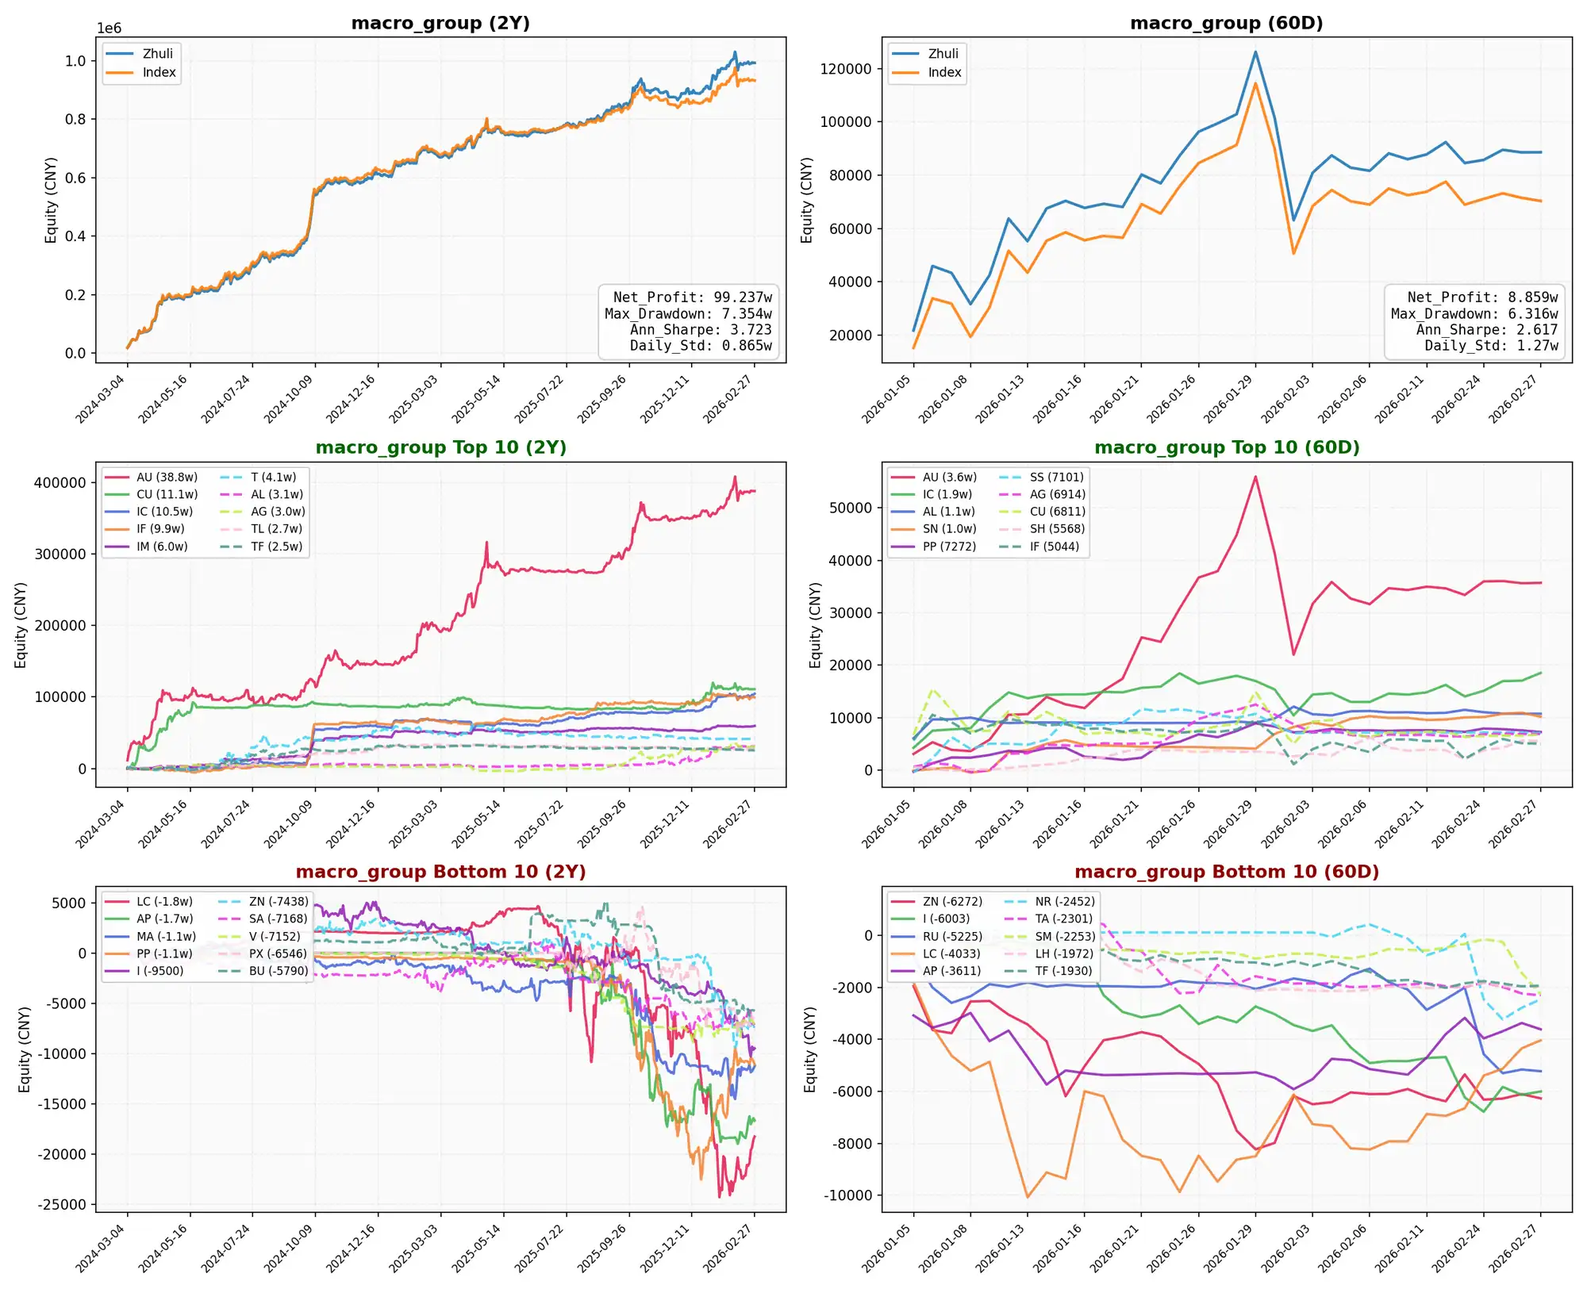
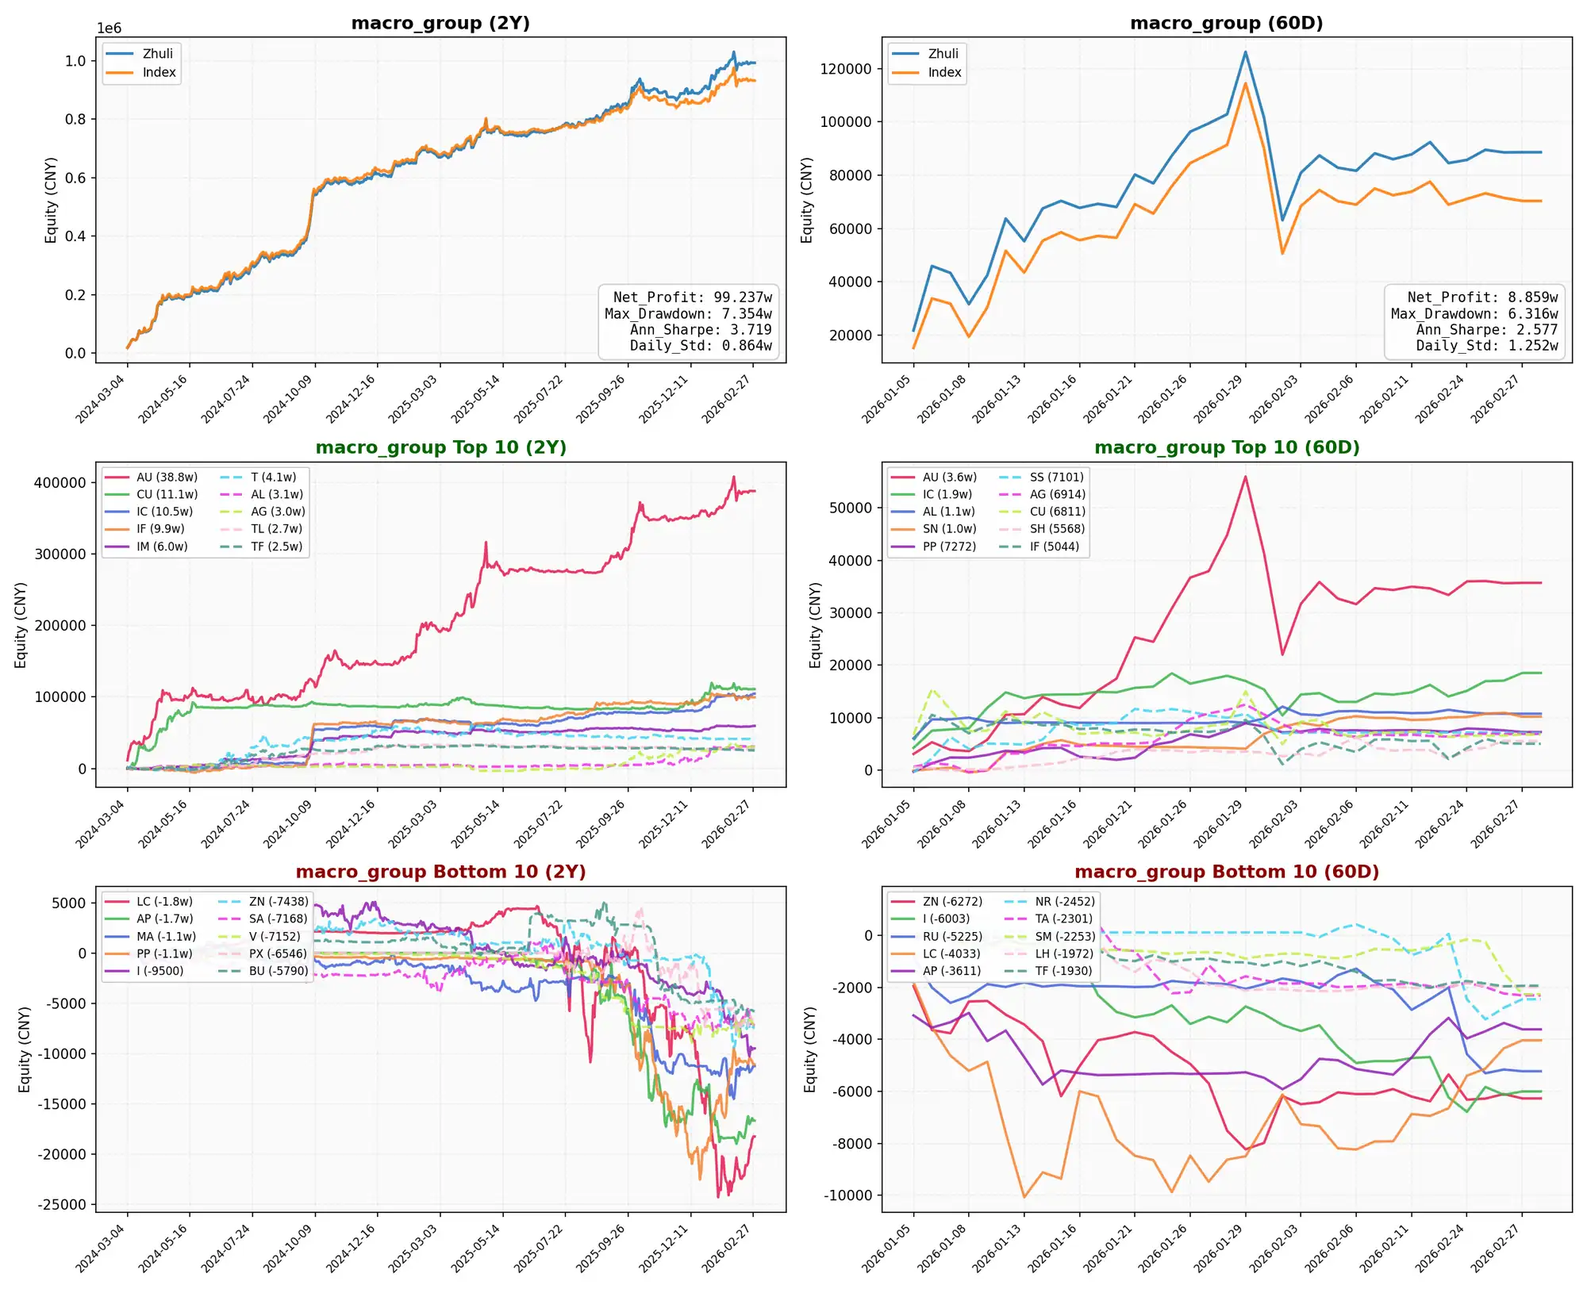
update 2026-03-02

diff --git a/group/index.html b/group/index.html
@@ -61,7 +61,7 @@
 </head>
 <body>
 <h1>Strategy Equity Dashboard</h1>
-<p class="subtitle">Updated: 2026-03-02 | Sorted by 60D Ann_Sharpe | 19 strategies | results_group</p>
+<p class="subtitle">Updated: 2026-03-02 | Sorted by 60D Ann_Sharpe | 20 strategies | results_group</p>
 <div class="controls">
   <input type="text" id="search" placeholder="Search strategy name..." oninput="filterCards()">
   <button onclick="toggleAll()">Expand / Collapse All</button>
@@ -146,8 +146,8 @@
       <div class="card-header" onclick="toggleCard(this.parentElement)">
         <span class="rank">#4</span>
         <span class="name">CTA_ts_HTOR_v2</span>
-        <span class="badge">60D Profit: 13.484w</span>
-        <span class="badge badge-sharpe">Sharpe: 4.404</span>
+        <span class="badge">60D Profit: 14.382w</span>
+        <span class="badge badge-sharpe">Sharpe: 4.612</span>
         <span class="badge badge-dd">MaxDD: 4.642w</span>
         <span class="toggle-icon">▼</span>
       </div>
@@ -155,21 +155,46 @@
         <div class="kpi-row">
           <table class="kpi-table">
             <tr><th colspan="4">2Y KPI</th></tr>
-            <tr><td class="kpi-label">Net_Profit</td><td class="kpi-val">91.315w</td><td class="kpi-label">Max_Drawdown</td><td class="kpi-val">5.324w</td></tr>
-            <tr><td class="kpi-label">Ann_Sharpe</td><td class="kpi-val">3.325</td><td class="kpi-label">Daily_Std</td><td class="kpi-val">0.901w</td></tr>
+            <tr><td class="kpi-label">Net_Profit</td><td class="kpi-val">92.213w</td><td class="kpi-label">Max_Drawdown</td><td class="kpi-val">5.324w</td></tr>
+            <tr><td class="kpi-label">Ann_Sharpe</td><td class="kpi-val">3.352</td><td class="kpi-label">Daily_Std</td><td class="kpi-val">0.901w</td></tr>
           </table>
           <table class="kpi-table">
             <tr><th colspan="4">60D KPI</th></tr>
-            <tr><td class="kpi-label">Net_Profit</td><td class="kpi-val">13.484w</td><td class="kpi-label">Max_Drawdown</td><td class="kpi-val">4.642w</td></tr>
-            <tr><td class="kpi-label">Ann_Sharpe</td><td class="kpi-val">4.404</td><td class="kpi-label">Daily_Std</td><td class="kpi-val">1.521w</td></tr>
+            <tr><td class="kpi-label">Net_Profit</td><td class="kpi-val">14.382w</td><td class="kpi-label">Max_Drawdown</td><td class="kpi-val">4.642w</td></tr>
+            <tr><td class="kpi-label">Ann_Sharpe</td><td class="kpi-val">4.612</td><td class="kpi-label">Daily_Std</td><td class="kpi-val">1.501w</td></tr>
           </table>
         </div>
         <img class="chart-img" data-src="CTA_ts_HTOR_v2.webp" alt="CTA_ts_HTOR_v2">
       </div>
     </div>
-    <div class="card collapsed" id="CMF17_corr_atr_momentumfilter">
+    <div class="card collapsed" id="zlw_1000w">
       <div class="card-header" onclick="toggleCard(this.parentElement)">
         <span class="rank">#5</span>
+        <span class="name">zlw_1000w</span>
+        <span class="badge">60D Profit: 278.25w</span>
+        <span class="badge badge-sharpe">Sharpe: 3.795</span>
+        <span class="badge badge-dd">MaxDD: 137.132w</span>
+        <span class="toggle-icon">▼</span>
+      </div>
+      <div class="card-body">
+        <div class="kpi-row">
+          <table class="kpi-table">
+            <tr><th colspan="4">2Y KPI</th></tr>
+            <tr><td class="kpi-label">Net_Profit</td><td class="kpi-val">1129.223w</td><td class="kpi-label">Max_Drawdown</td><td class="kpi-val">211.302w</td></tr>
+            <tr><td class="kpi-label">Ann_Sharpe</td><td class="kpi-val">1.718</td><td class="kpi-label">Daily_Std</td><td class="kpi-val">21.529w</td></tr>
+          </table>
+          <table class="kpi-table">
+            <tr><th colspan="4">60D KPI</th></tr>
+            <tr><td class="kpi-label">Net_Profit</td><td class="kpi-val">278.25w</td><td class="kpi-label">Max_Drawdown</td><td class="kpi-val">137.132w</td></tr>
+            <tr><td class="kpi-label">Ann_Sharpe</td><td class="kpi-val">3.795</td><td class="kpi-label">Daily_Std</td><td class="kpi-val">30.009w</td></tr>
+          </table>
+        </div>
+        <img class="chart-img" data-src="zlw_1000w.webp" alt="zlw_1000w">
+      </div>
+    </div>
+    <div class="card collapsed" id="CMF17_corr_atr_momentumfilter">
+      <div class="card-header" onclick="toggleCard(this.parentElement)">
+        <span class="rank">#6</span>
         <span class="name">CMF17_corr_atr_momentumfilter</span>
         <span class="badge">60D Profit: 6.939w</span>
         <span class="badge badge-sharpe">Sharpe: 3.737</span>
@@ -194,10 +219,10 @@
     </div>
     <div class="card collapsed" id="xiaowengroup_202509">
       <div class="card-header" onclick="toggleCard(this.parentElement)">
-        <span class="rank">#6</span>
+        <span class="rank">#7</span>
         <span class="name">xiaowengroup_202509</span>
         <span class="badge">60D Profit: 7.835w</span>
-        <span class="badge badge-sharpe">Sharpe: 3.679</span>
+        <span class="badge badge-sharpe">Sharpe: 3.621</span>
         <span class="badge badge-dd">MaxDD: 3.559w</span>
         <span class="toggle-icon">▼</span>
       </div>
@@ -206,12 +231,12 @@
           <table class="kpi-table">
             <tr><th colspan="4">2Y KPI</th></tr>
             <tr><td class="kpi-label">Net_Profit</td><td class="kpi-val">17.281w</td><td class="kpi-label">Max_Drawdown</td><td class="kpi-val">4.52w</td></tr>
-            <tr><td class="kpi-label">Ann_Sharpe</td><td class="kpi-val">3.312</td><td class="kpi-label">Daily_Std</td><td class="kpi-val">0.749w</td></tr>
+            <tr><td class="kpi-label">Ann_Sharpe</td><td class="kpi-val">3.297</td><td class="kpi-label">Daily_Std</td><td class="kpi-val">0.745w</td></tr>
           </table>
           <table class="kpi-table">
             <tr><th colspan="4">60D KPI</th></tr>
             <tr><td class="kpi-label">Net_Profit</td><td class="kpi-val">7.835w</td><td class="kpi-label">Max_Drawdown</td><td class="kpi-val">3.559w</td></tr>
-            <tr><td class="kpi-label">Ann_Sharpe</td><td class="kpi-val">3.679</td><td class="kpi-label">Daily_Std</td><td class="kpi-val">0.854w</td></tr>
+            <tr><td class="kpi-label">Ann_Sharpe</td><td class="kpi-val">3.621</td><td class="kpi-label">Daily_Std</td><td class="kpi-val">0.842w</td></tr>
           </table>
         </div>
         <img class="chart-img" data-src="xiaowengroup_202509.webp" alt="xiaowengroup_202509">
@@ -219,7 +244,7 @@
     </div>
     <div class="card collapsed" id="Deap_comm_daynight_combine_Equal">
       <div class="card-header" onclick="toggleCard(this.parentElement)">
-        <span class="rank">#7</span>
+        <span class="rank">#8</span>
         <span class="name">Deap_comm_daynight_combine_Equal</span>
         <span class="badge">60D Profit: 14.204w</span>
         <span class="badge badge-sharpe">Sharpe: 3.346</span>
@@ -242,9 +267,34 @@
         <img class="chart-img" data-src="Deap_comm_daynight_combine_Equal.webp" alt="Deap_comm_daynight_combine_Equal">
       </div>
     </div>
+    <div class="card collapsed" id="ifp_complex_group">
+      <div class="card-header" onclick="toggleCard(this.parentElement)">
+        <span class="rank">#9</span>
+        <span class="name">ifp_complex_group</span>
+        <span class="badge">60D Profit: 9.679w</span>
+        <span class="badge badge-sharpe">Sharpe: 2.96</span>
+        <span class="badge badge-dd">MaxDD: 4.706w</span>
+        <span class="toggle-icon">▼</span>
+      </div>
+      <div class="card-body">
+        <div class="kpi-row">
+          <table class="kpi-table">
+            <tr><th colspan="4">2Y KPI</th></tr>
+            <tr><td class="kpi-label">Net_Profit</td><td class="kpi-val">157.868w</td><td class="kpi-label">Max_Drawdown</td><td class="kpi-val">8.321w</td></tr>
+            <tr><td class="kpi-label">Ann_Sharpe</td><td class="kpi-val">4.034</td><td class="kpi-label">Daily_Std</td><td class="kpi-val">1.274w</td></tr>
+          </table>
+          <table class="kpi-table">
+            <tr><th colspan="4">60D KPI</th></tr>
+            <tr><td class="kpi-label">Net_Profit</td><td class="kpi-val">9.679w</td><td class="kpi-label">Max_Drawdown</td><td class="kpi-val">4.706w</td></tr>
+            <tr><td class="kpi-label">Ann_Sharpe</td><td class="kpi-val">2.96</td><td class="kpi-label">Daily_Std</td><td class="kpi-val">1.22w</td></tr>
+          </table>
+        </div>
+        <img class="chart-img" data-src="ifp_complex_group.webp" alt="ifp_complex_group">
+      </div>
+    </div>
     <div class="card collapsed" id="kmf_atr">
       <div class="card-header" onclick="toggleCard(this.parentElement)">
-        <span class="rank">#8</span>
+        <span class="rank">#10</span>
         <span class="name">kmf_atr</span>
         <span class="badge">60D Profit: 7.782w</span>
         <span class="badge badge-sharpe">Sharpe: 2.945</span>
@@ -269,7 +319,7 @@
     </div>
     <div class="card collapsed" id="daydeapcomm500_neubeta">
       <div class="card-header" onclick="toggleCard(this.parentElement)">
-        <span class="rank">#9</span>
+        <span class="rank">#11</span>
         <span class="name">daydeapcomm500_neubeta</span>
         <span class="badge">60D Profit: 4.907w</span>
         <span class="badge badge-sharpe">Sharpe: 2.707</span>
@@ -294,7 +344,7 @@
     </div>
     <div class="card collapsed" id="kfs_group">
       <div class="card-header" onclick="toggleCard(this.parentElement)">
-        <span class="rank">#10</span>
+        <span class="rank">#12</span>
         <span class="name">kfs_group</span>
         <span class="badge">60D Profit: 7.479w</span>
         <span class="badge badge-sharpe">Sharpe: 2.629</span>
@@ -317,34 +367,9 @@
         <img class="chart-img" data-src="kfs_group.webp" alt="kfs_group">
       </div>
     </div>
-    <div class="card collapsed" id="macro_group">
-      <div class="card-header" onclick="toggleCard(this.parentElement)">
-        <span class="rank">#11</span>
-        <span class="name">macro_group</span>
-        <span class="badge">60D Profit: 8.859w</span>
-        <span class="badge badge-sharpe">Sharpe: 2.617</span>
-        <span class="badge badge-dd">MaxDD: 6.316w</span>
-        <span class="toggle-icon">▼</span>
-      </div>
-      <div class="card-body">
-        <div class="kpi-row">
-          <table class="kpi-table">
-            <tr><th colspan="4">2Y KPI</th></tr>
-            <tr><td class="kpi-label">Net_Profit</td><td class="kpi-val">99.237w</td><td class="kpi-label">Max_Drawdown</td><td class="kpi-val">7.354w</td></tr>
-            <tr><td class="kpi-label">Ann_Sharpe</td><td class="kpi-val">3.723</td><td class="kpi-label">Daily_Std</td><td class="kpi-val">0.865w</td></tr>
-          </table>
-          <table class="kpi-table">
-            <tr><th colspan="4">60D KPI</th></tr>
-            <tr><td class="kpi-label">Net_Profit</td><td class="kpi-val">8.859w</td><td class="kpi-label">Max_Drawdown</td><td class="kpi-val">6.316w</td></tr>
-            <tr><td class="kpi-label">Ann_Sharpe</td><td class="kpi-val">2.617</td><td class="kpi-label">Daily_Std</td><td class="kpi-val">1.27w</td></tr>
-          </table>
-        </div>
-        <img class="chart-img" data-src="macro_group.webp" alt="macro_group">
-      </div>
-    </div>
     <div class="card collapsed" id="Deap_comm_daynight_v6_opt">
       <div class="card-header" onclick="toggleCard(this.parentElement)">
-        <span class="rank">#12</span>
+        <span class="rank">#13</span>
         <span class="name">Deap_comm_daynight_v6_opt</span>
         <span class="badge">60D Profit: 4.779w</span>
         <span class="badge badge-sharpe">Sharpe: 2.607</span>
@@ -367,9 +392,34 @@
         <img class="chart-img" data-src="Deap_comm_daynight_v6_opt.webp" alt="Deap_comm_daynight_v6_opt">
       </div>
     </div>
+    <div class="card collapsed" id="macro_group">
+      <div class="card-header" onclick="toggleCard(this.parentElement)">
+        <span class="rank">#14</span>
+        <span class="name">macro_group</span>
+        <span class="badge">60D Profit: 8.859w</span>
+        <span class="badge badge-sharpe">Sharpe: 2.577</span>
+        <span class="badge badge-dd">MaxDD: 6.316w</span>
+        <span class="toggle-icon">▼</span>
+      </div>
+      <div class="card-body">
+        <div class="kpi-row">
+          <table class="kpi-table">
+            <tr><th colspan="4">2Y KPI</th></tr>
+            <tr><td class="kpi-label">Net_Profit</td><td class="kpi-val">99.237w</td><td class="kpi-label">Max_Drawdown</td><td class="kpi-val">7.354w</td></tr>
+            <tr><td class="kpi-label">Ann_Sharpe</td><td class="kpi-val">3.719</td><td class="kpi-label">Daily_Std</td><td class="kpi-val">0.864w</td></tr>
+          </table>
+          <table class="kpi-table">
+            <tr><th colspan="4">60D KPI</th></tr>
+            <tr><td class="kpi-label">Net_Profit</td><td class="kpi-val">8.859w</td><td class="kpi-label">Max_Drawdown</td><td class="kpi-val">6.316w</td></tr>
+            <tr><td class="kpi-label">Ann_Sharpe</td><td class="kpi-val">2.577</td><td class="kpi-label">Daily_Std</td><td class="kpi-val">1.252w</td></tr>
+          </table>
+        </div>
+        <img class="chart-img" data-src="macro_group.webp" alt="macro_group">
+      </div>
+    </div>
     <div class="card collapsed" id="Deap_benchmark_v8_daxin_opt">
       <div class="card-header" onclick="toggleCard(this.parentElement)">
-        <span class="rank">#13</span>
+        <span class="rank">#15</span>
         <span class="name">Deap_benchmark_v8_daxin_opt</span>
         <span class="badge">60D Profit: 5.55w</span>
         <span class="badge badge-sharpe">Sharpe: 2.507</span>
@@ -394,10 +444,10 @@
     </div>
     <div class="card collapsed" id="CTA_hs_ltor">
       <div class="card-header" onclick="toggleCard(this.parentElement)">
-        <span class="rank">#14</span>
+        <span class="rank">#16</span>
         <span class="name">CTA_hs_ltor</span>
         <span class="badge">60D Profit: 3.143w</span>
-        <span class="badge badge-sharpe">Sharpe: 2.305</span>
+        <span class="badge badge-sharpe">Sharpe: 2.27</span>
         <span class="badge badge-dd">MaxDD: 2.178w</span>
         <span class="toggle-icon">▼</span>
       </div>
@@ -406,12 +456,12 @@
           <table class="kpi-table">
             <tr><th colspan="4">2Y KPI</th></tr>
             <tr><td class="kpi-label">Net_Profit</td><td class="kpi-val">38.108w</td><td class="kpi-label">Max_Drawdown</td><td class="kpi-val">7.126w</td></tr>
-            <tr><td class="kpi-label">Ann_Sharpe</td><td class="kpi-val">1.81</td><td class="kpi-label">Daily_Std</td><td class="kpi-val">0.693w</td></tr>
+            <tr><td class="kpi-label">Ann_Sharpe</td><td class="kpi-val">1.808</td><td class="kpi-label">Daily_Std</td><td class="kpi-val">0.692w</td></tr>
           </table>
           <table class="kpi-table">
             <tr><th colspan="4">60D KPI</th></tr>
             <tr><td class="kpi-label">Net_Profit</td><td class="kpi-val">3.143w</td><td class="kpi-label">Max_Drawdown</td><td class="kpi-val">2.178w</td></tr>
-            <tr><td class="kpi-label">Ann_Sharpe</td><td class="kpi-val">2.305</td><td class="kpi-label">Daily_Std</td><td class="kpi-val">0.478w</td></tr>
+            <tr><td class="kpi-label">Ann_Sharpe</td><td class="kpi-val">2.27</td><td class="kpi-label">Daily_Std</td><td class="kpi-val">0.472w</td></tr>
           </table>
         </div>
         <img class="chart-img" data-src="CTA_hs_ltor.webp" alt="CTA_hs_ltor">
@@ -419,7 +469,7 @@
     </div>
     <div class="card collapsed" id="Deap_benchmark_v7_ML_opt">
       <div class="card-header" onclick="toggleCard(this.parentElement)">
-        <span class="rank">#15</span>
+        <span class="rank">#17</span>
         <span class="name">Deap_benchmark_v7_ML_opt</span>
         <span class="badge">60D Profit: 4.337w</span>
         <span class="badge badge-sharpe">Sharpe: 2.064</span>
@@ -444,10 +494,10 @@
     </div>
     <div class="card collapsed" id="CTA_ts_mtor_v2">
       <div class="card-header" onclick="toggleCard(this.parentElement)">
-        <span class="rank">#16</span>
+        <span class="rank">#18</span>
         <span class="name">CTA_ts_mtor_v2</span>
         <span class="badge">60D Profit: 8.86w</span>
-        <span class="badge badge-sharpe">Sharpe: 1.733</span>
+        <span class="badge badge-sharpe">Sharpe: 1.707</span>
         <span class="badge badge-dd">MaxDD: 6.884w</span>
         <span class="toggle-icon">▼</span>
       </div>
@@ -456,12 +506,12 @@
           <table class="kpi-table">
             <tr><th colspan="4">2Y KPI</th></tr>
             <tr><td class="kpi-label">Net_Profit</td><td class="kpi-val">54.57w</td><td class="kpi-label">Max_Drawdown</td><td class="kpi-val">10.846w</td></tr>
-            <tr><td class="kpi-label">Ann_Sharpe</td><td class="kpi-val">1.44</td><td class="kpi-label">Daily_Std</td><td class="kpi-val">1.247w</td></tr>
+            <tr><td class="kpi-label">Ann_Sharpe</td><td class="kpi-val">1.439</td><td class="kpi-label">Daily_Std</td><td class="kpi-val">1.245w</td></tr>
           </table>
           <table class="kpi-table">
             <tr><th colspan="4">60D KPI</th></tr>
             <tr><td class="kpi-label">Net_Profit</td><td class="kpi-val">8.86w</td><td class="kpi-label">Max_Drawdown</td><td class="kpi-val">6.884w</td></tr>
-            <tr><td class="kpi-label">Ann_Sharpe</td><td class="kpi-val">1.733</td><td class="kpi-label">Daily_Std</td><td class="kpi-val">1.628w</td></tr>
+            <tr><td class="kpi-label">Ann_Sharpe</td><td class="kpi-val">1.707</td><td class="kpi-label">Daily_Std</td><td class="kpi-val">1.604w</td></tr>
           </table>
         </div>
         <img class="chart-img" data-src="CTA_ts_mtor_v2.webp" alt="CTA_ts_mtor_v2">
@@ -469,7 +519,7 @@
     </div>
     <div class="card collapsed" id="Deap_comm_daynight_combine_ML_opt">
       <div class="card-header" onclick="toggleCard(this.parentElement)">
-        <span class="rank">#17</span>
+        <span class="rank">#19</span>
         <span class="name">Deap_comm_daynight_combine_ML_opt</span>
         <span class="badge">60D Profit: 4.142w</span>
         <span class="badge badge-sharpe">Sharpe: 1.647</span>
@@ -492,37 +542,12 @@
         <img class="chart-img" data-src="Deap_comm_daynight_combine_ML_opt.webp" alt="Deap_comm_daynight_combine_ML_opt">
       </div>
     </div>
-    <div class="card collapsed" id="ifp_complex_group">
-      <div class="card-header" onclick="toggleCard(this.parentElement)">
-        <span class="rank">#18</span>
-        <span class="name">ifp_complex_group</span>
-        <span class="badge">60D Profit: 5.441w</span>
-        <span class="badge badge-sharpe">Sharpe: 1.618</span>
-        <span class="badge badge-dd">MaxDD: 4.706w</span>
-        <span class="toggle-icon">▼</span>
-      </div>
-      <div class="card-body">
-        <div class="kpi-row">
-          <table class="kpi-table">
-            <tr><th colspan="4">2Y KPI</th></tr>
-            <tr><td class="kpi-label">Net_Profit</td><td class="kpi-val">153.63w</td><td class="kpi-label">Max_Drawdown</td><td class="kpi-val">8.321w</td></tr>
-            <tr><td class="kpi-label">Ann_Sharpe</td><td class="kpi-val">3.968</td><td class="kpi-label">Daily_Std</td><td class="kpi-val">1.263w</td></tr>
-          </table>
-          <table class="kpi-table">
-            <tr><th colspan="4">60D KPI</th></tr>
-            <tr><td class="kpi-label">Net_Profit</td><td class="kpi-val">5.441w</td><td class="kpi-label">Max_Drawdown</td><td class="kpi-val">4.706w</td></tr>
-            <tr><td class="kpi-label">Ann_Sharpe</td><td class="kpi-val">1.618</td><td class="kpi-label">Daily_Std</td><td class="kpi-val">1.021w</td></tr>
-          </table>
-        </div>
-        <img class="chart-img" data-src="ifp_complex_group.webp" alt="ifp_complex_group">
-      </div>
-    </div>
     <div class="card collapsed" id="CTA_ts_ltor">
       <div class="card-header" onclick="toggleCard(this.parentElement)">
-        <span class="rank">#19</span>
+        <span class="rank">#20</span>
         <span class="name">CTA_ts_ltor</span>
         <span class="badge">60D Profit: -1.263w</span>
-        <span class="badge badge-sharpe">Sharpe: -1.079</span>
+        <span class="badge badge-sharpe">Sharpe: -1.063</span>
         <span class="badge badge-dd">MaxDD: 12.193w</span>
         <span class="toggle-icon">▼</span>
       </div>
@@ -531,12 +556,12 @@
           <table class="kpi-table">
             <tr><th colspan="4">2Y KPI</th></tr>
             <tr><td class="kpi-label">Net_Profit</td><td class="kpi-val">54.372w</td><td class="kpi-label">Max_Drawdown</td><td class="kpi-val">13.095w</td></tr>
-            <tr><td class="kpi-label">Ann_Sharpe</td><td class="kpi-val">1.322</td><td class="kpi-label">Daily_Std</td><td class="kpi-val">1.366w</td></tr>
+            <tr><td class="kpi-label">Ann_Sharpe</td><td class="kpi-val">1.321</td><td class="kpi-label">Daily_Std</td><td class="kpi-val">1.365w</td></tr>
           </table>
           <table class="kpi-table">
             <tr><th colspan="4">60D KPI</th></tr>
             <tr><td class="kpi-label">Net_Profit</td><td class="kpi-val">-1.263w</td><td class="kpi-label">Max_Drawdown</td><td class="kpi-val">12.193w</td></tr>
-            <tr><td class="kpi-label">Ann_Sharpe</td><td class="kpi-val">-1.079</td><td class="kpi-label">Daily_Std</td><td class="kpi-val">1.987w</td></tr>
+            <tr><td class="kpi-label">Ann_Sharpe</td><td class="kpi-val">-1.063</td><td class="kpi-label">Daily_Std</td><td class="kpi-val">1.958w</td></tr>
           </table>
         </div>
         <img class="chart-img" data-src="CTA_ts_ltor.webp" alt="CTA_ts_ltor">
